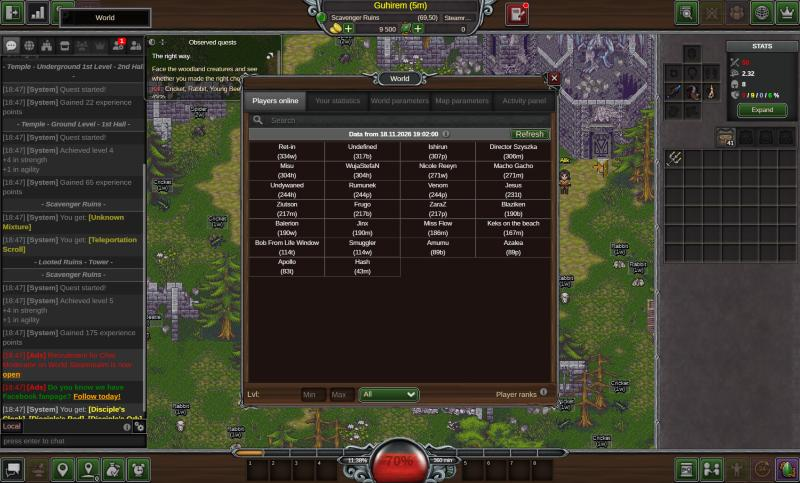
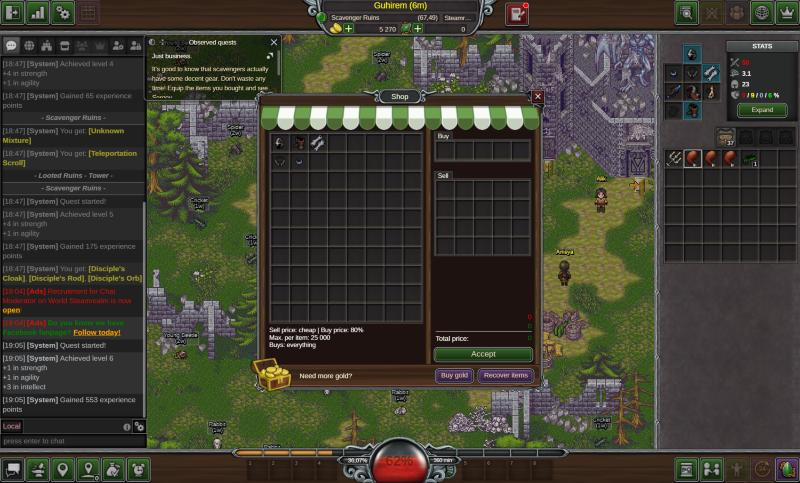
Dark Gothic 2.0.0 — README i nowe zrzuty po przebudowie

diff --git a/README.md b/README.md
@@ -97,18 +97,22 @@ Dostosowanie: kolory wariantów to zmienne CSS `--ck-*` w blokach `html[data-ck-
 
 ## Margonem — Dark Gothic
 
-Mroczny gotycki motyw dla **nowego interfejsu (NI)** gry Margonem, zbudowany z **rastrowych grafik** (kute żelazo, czaszki, poczerniałe srebro, zaschnięta krew) zamiast rysunków w CSS. Paleta: prawie czarny `#0b0b0d`/`#141012`, bordo i ciemna czerwień `#3a0508`/`#5a0a0f`/`#8b0000`, kość `#d8cfc0` i zmatowiałe srebro `#8a8a90`.
+Mroczny, demoniczny motyw dla **nowego interfejsu (NI)** gry Margonem, zbudowany z **własnych rastrowych grafik**: rogate głowy demonów, czarne żelazo z runami i żarem, krwawy dym, pierścień kuli HP z rogami. Paleta: prawie czarny `#070607`/`#0b0b0d`, bordo i ciemna czerwień `#3a0508`/`#5a0a0f`/`#8b0000`, żar `#c0262d`, kość `#d8cfc0`.
 
 Co jest ostylowane:
-- **okna z ramką** — ramka 9-slice z kutej kraty z czaszkami w narożnikach (`border-image`, skaluje się do każdego rozmiaru okna), tło z ciemnej skóry/kamienia, bordowy nagłówek kapitalikami, zakrwawiony przycisk zamknięcia,
-- **okna przezroczyste** (śledzone questy, sorter) — ciemniejsze tło i srebrna obwódka,
-- **dialog z NPC** — ta sama rama plus duże kute narożniki z czaszką,
-- **sklep** — rama, markiza w bordo i kości, krata zamiast drewnianej belki,
-- **ekwipunek, torby, statystyki** — przyciemniona siatka slotów, bordowe obrysy,
-- **czat** — tekstura, bordowa aktywna zakładka, kolory kanałów bez zmian,
-- **tooltipy przedmiotów** — mała rama z kraty, bordowy nagłówek, kolory rzadkości bez zmian,
-- **przyciski** — żelazna oprawa z czaszkami; zielony (domyślny) przycisk gry staje się bordową skórą, pozostałe kolory (czerwony, niebieski, fiolet…) zachowują znaczenie,
-- **belki górna i dolna, boczne kolumny, pasek EXP (karmazyn), paski postępu, scrollbary**.
+- **tabliczka HUD** (imię, lokacja, złoto) — kuta tabliczka z rogami, imię czerwonymi kapitalikami, **głowy demonów** po obu stronach,
+- **kula HP** — żelazny pierścień z rogami i kolcami, krwawa poświata; gra dalej pokazuje w środku swój poziom HP i procent,
+- **dolny panel** — poczerniała oprawa pasków EXP (karmazyn), głowy demonów na końcach, ciemne sloty,
+- **górna i dolna belka** — czerń z belką z runami i żarem na krawędzi,
+- **przyciski HUD** — ciemne obsydianowe kafle z czerwoną poświatą, ikony w szarości (kolor przy najechaniu), kolor gry (fiolet, niebieski) zostaje jako delikatna poświata,
+- **okna z ramką** — ramka 9-slice z belki z runami i żelaznymi guzami z żarem (`border-image`, skaluje się do każdego rozmiaru), krwawy dym w tle, **baner tytułu z rogami**, czaszka demona pod oknem,
+- **okna przezroczyste** (śledzone questy, sorter) — czerń z czerwoną obwódką,
+- **dialog z NPC** — ta sama rama i głowa demona nad oknem,
+- **sklep** — markiza w ciemnym bordo, krata zamiast drewnianej belki,
+- **ekwipunek, torby, statystyki, czat** — czarne tło z krwawym dymem od dołu, czerwone aktywne zakładki, kolory kanałów bez zmian,
+- **tooltipy przedmiotów** — żelazna ramka, czerwony nagłówek, kolory rzadkości bez zmian,
+- **przyciski tekstowe** — obsydianowe kafle; czerwony, niebieski i fioletowy przycisk gry zachowują znaczenie,
+- **paski postępu, scrollbary**.
 
 Mapa (canvas) i logika gry pozostają nietknięte — skrypt wstrzykuje wyłącznie CSS.
 
@@ -122,4 +126,4 @@ Instalacja:
 
 Wyłączanie: **Ctrl+Alt+G** albo ikona Tampermonkey → „Dark Gothic: włącz / wyłącz” (wybór jest zapamiętywany).
 
-Grafiki leżą w [assets/dark-gothic/](assets/dark-gothic/) (6 plików WebP, razem ok. 61 KB) i są ładowane przez jsDelivr. Zostały wygenerowane modelem FLUX.1 Krea (seed 1337), tło wycięte kluczowaniem czerni, tekstura i pasek ramki dopasowane do bezszwowego kafelkowania. Zrzuty przed/po: [margonem-dark-gothic/screenshots/](margonem-dark-gothic/screenshots/).
+Grafiki leżą w [assets/dark-gothic/](assets/dark-gothic/) (10 plików WebP, razem ok. 140 KB, każdy poniżej 40 KB) i są ładowane przez jsDelivr. Zostały wygenerowane modelem FLUX.1 Krea (seed 1337) jako osobne elementy, tło wycięte kluczowaniem czerni, środek pierścienia kuli HP wycięty pod kulę gry, belka dopasowana do bezszwowego powtarzania. Zrzuty przed/po: [margonem-dark-gothic/screenshots/](margonem-dark-gothic/screenshots/).
